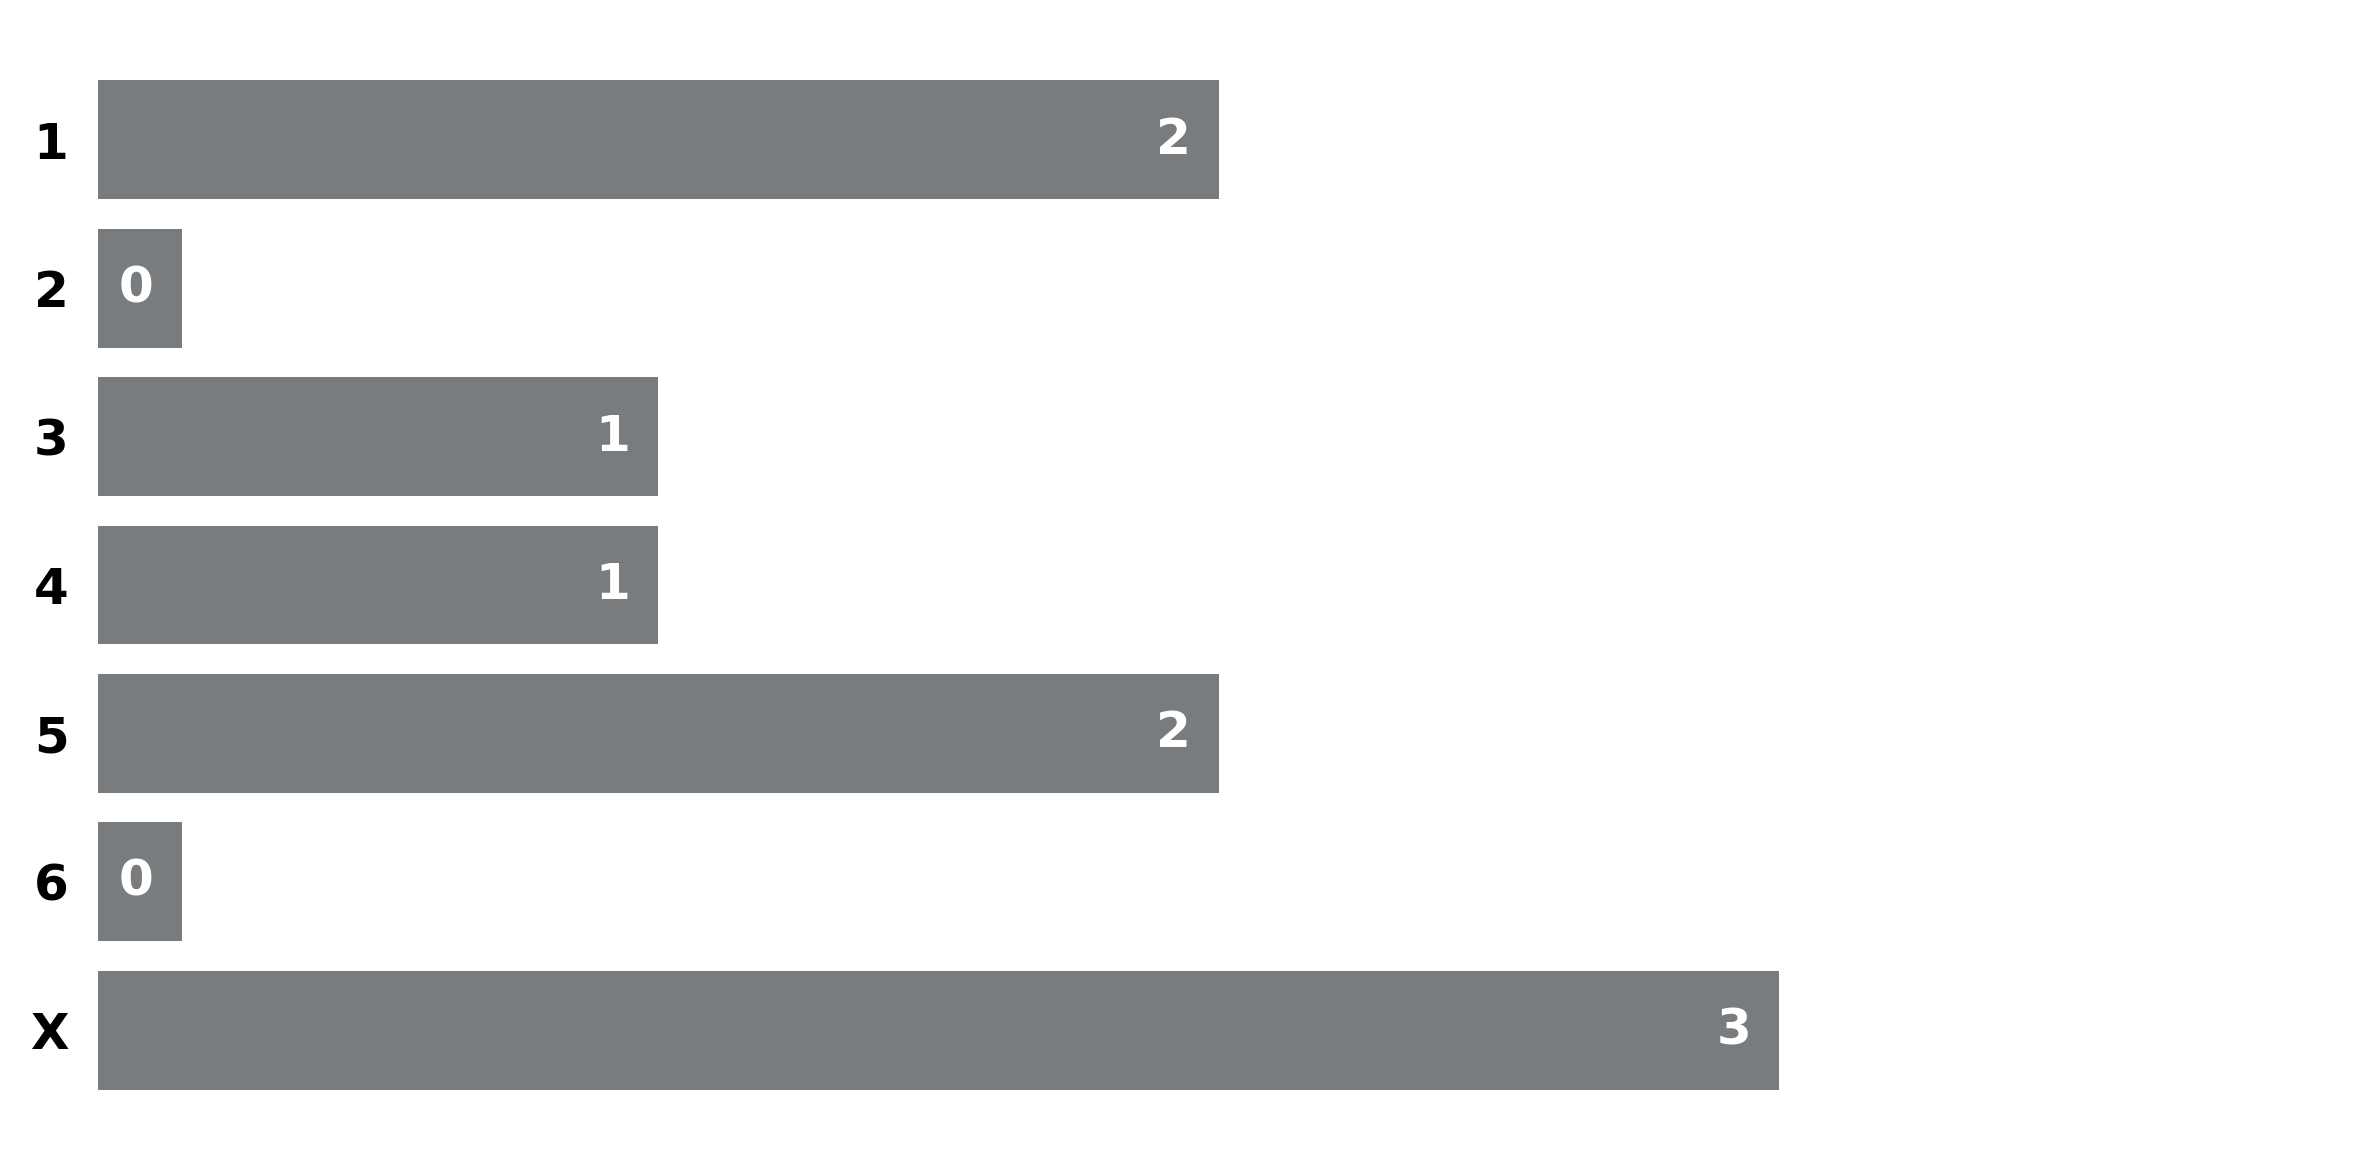
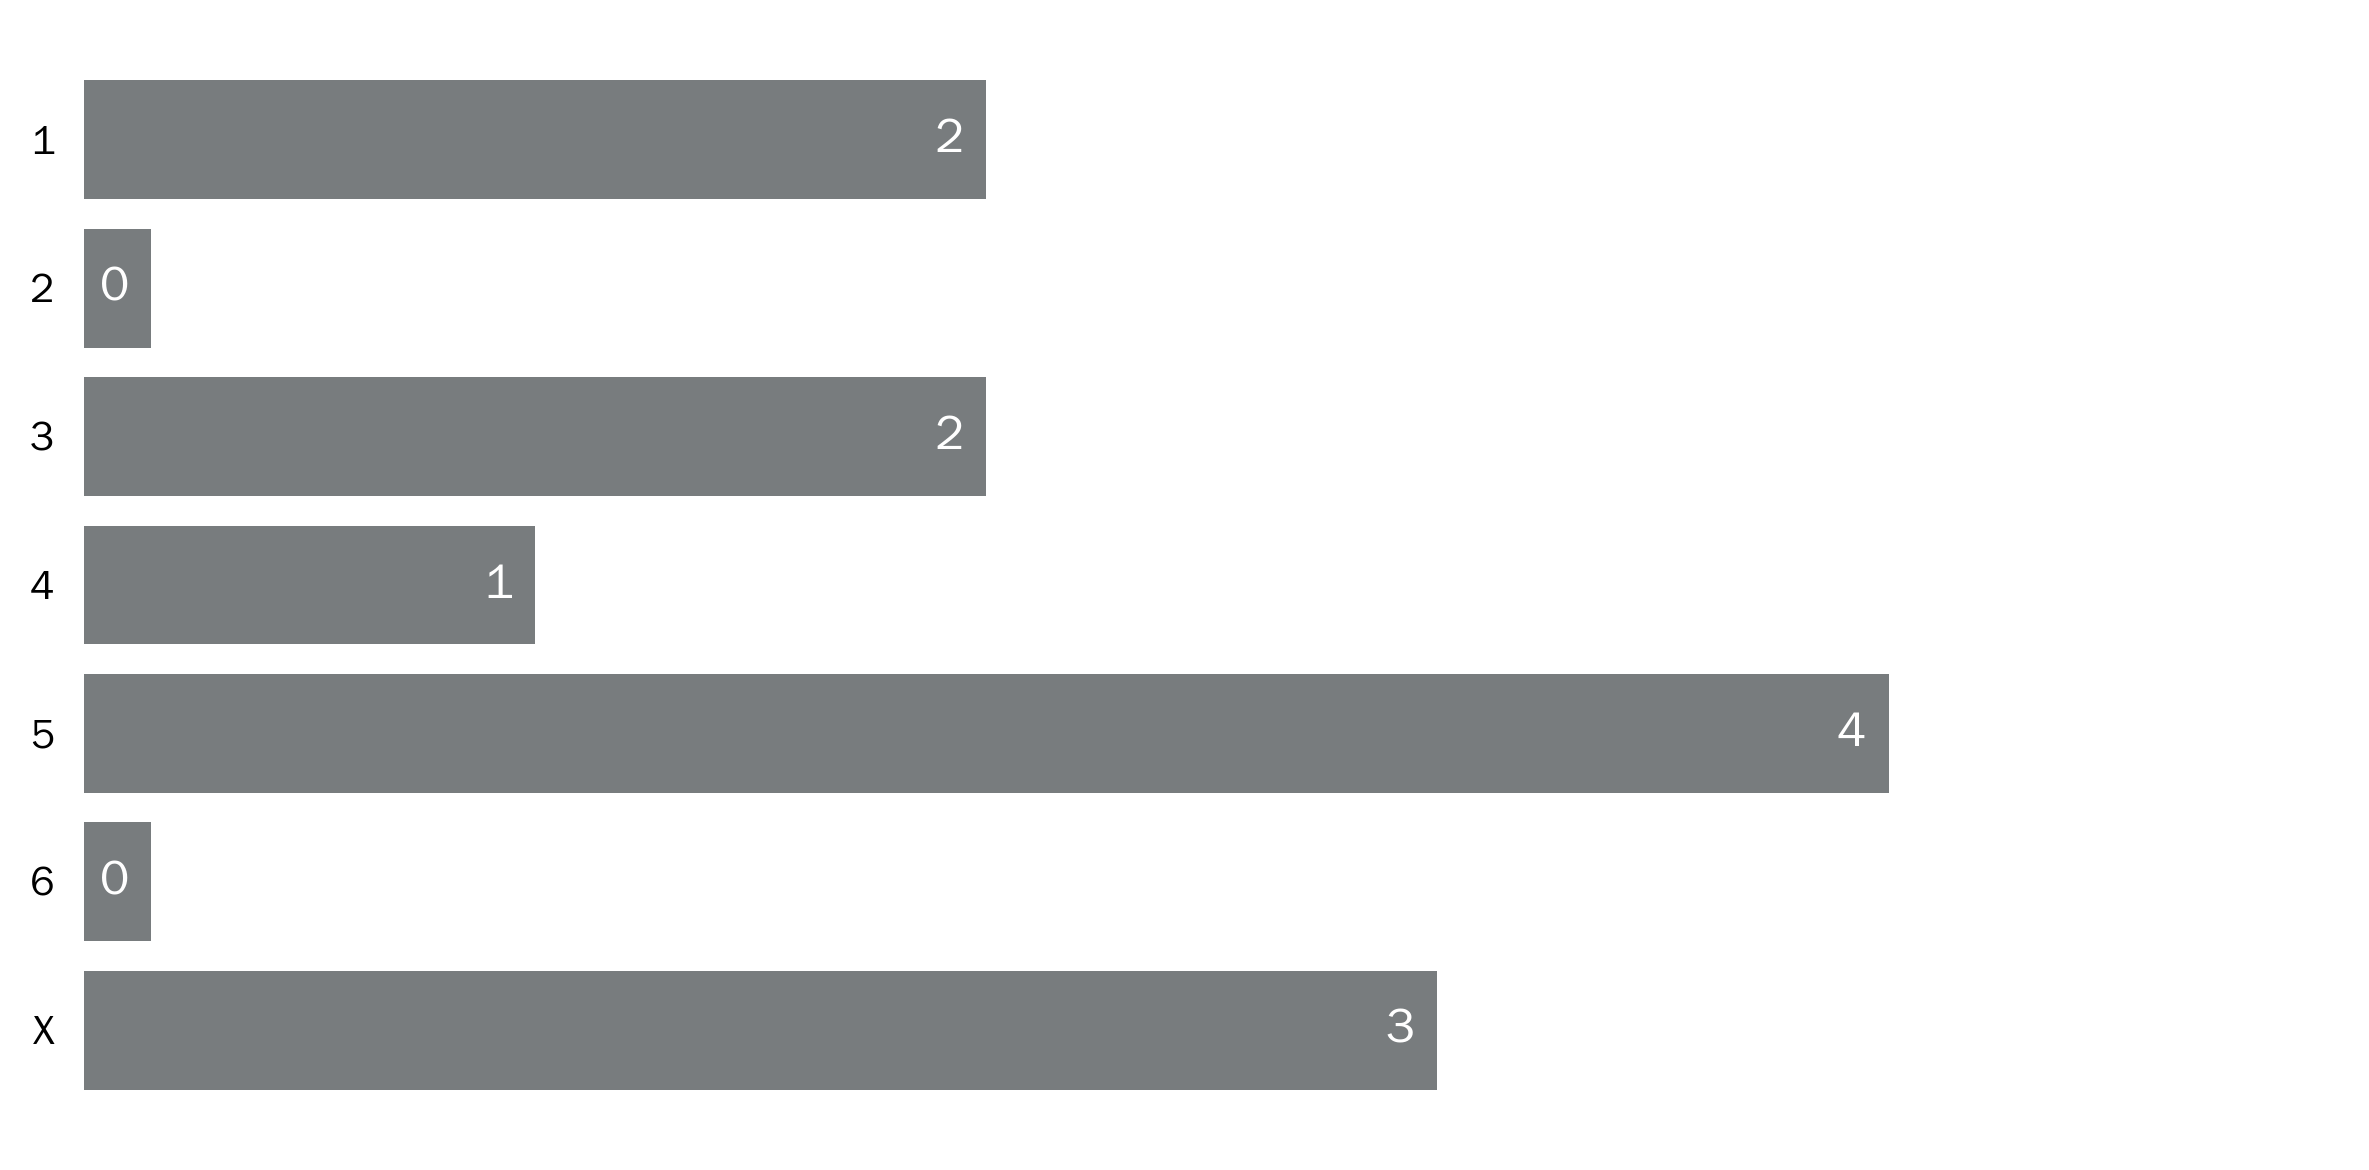
update

diff --git a/main.py b/main.py
@@ -1,7 +1,13 @@
 import discord, os, json, dotenv, re, sys, pybound, io, calendar
-import matplotlib.pyplot as plt
 from datetime import datetime, timedelta, timezone
 from PIL import Image, ImageDraw, ImageFont
+
+# MATPLOT LIB
+import matplotlib.pyplot as plt
+from matplotlib import font_manager
+font_path = "assets/Franklin-Gothic.ttf"
+font_manager.fontManager.addfont(font_path)
+franklin_font = font_manager.FontProperties(fname=font_path)
 
 # Emoji names and IDs (copy and paste for messaging and maybe reacting)
 # <:ninety:1393042776114855966> <:eighty:1393042634104111124> <:seventy:1393061147363508254> <:sixty:1393039767746117652> <:fifty:1393060774087360552>
@@ -38,13 +44,8 @@ def generate_wordle_bar_chart(distribution, filepath="assets/wordle_bar_chart.pn
 
     fig, ax = plt.subplots(figsize=(8, 4))
 
-    # Gray color used by NYT Wordle bars
     bar_color = "#787c7e"
-
-    # Minimum width to just fit number "0" plus padding
     min_bar_width = 0.15
-
-    # Adjust distribution for zero values: if zero, set width to min_bar_width, else original value
     adjusted_distribution = [val if val > 0 else min_bar_width for val in distribution]
 
     bars = ax.barh(guess_labels, adjusted_distribution, color=bar_color)
@@ -55,32 +56,46 @@ def generate_wordle_bar_chart(distribution, filepath="assets/wordle_bar_chart.pn
         padding = 0.05
         text_x = bar_width - padding
         text_color = "white"
-        ax.text(text_x, bar.get_y() + bar.get_height() / 2,
-                label, ha='right', va='center', color=text_color,
-                fontsize=12, fontweight='bold')
+        y = bar.get_y() + bar.get_height() / 2
 
-    # Clean up plot
-    ax.set_xlim(0, max(max(distribution), min_bar_width) + 1)  # Add 1 unit space for padding
+        for dx, dy in [(-0.25, 0), (0.25, 0), (0, -0.25), (0, 0.25)]:
+            ax.text(
+                text_x + dx * 0.01,
+                y + dy * 0.01,
+                label,
+                ha='right',
+                va='center',
+                color=text_color,
+                fontsize=12,
+                fontproperties=franklin_font
+            )
+
+        ax.text(
+            text_x,
+            y,
+            label,
+            ha='right',
+            va='center',
+            color=text_color,
+            fontsize=12,
+            fontproperties=franklin_font
+        )
+
+    ax.set_xlim(0, max(max(distribution), min_bar_width) + 1)
     ax.set_xticks([])
-
-    # Remove y-axis ticks (the little dash lines)
     ax.yaxis.set_ticks_position('none')
-
-    # Set y-ticks and labels with desired font and style (black color)
     ax.set_yticks(range(len(guess_labels)))
+
     labels = ax.set_yticklabels(
         guess_labels,
         fontsize=12,
         fontweight='bold',
-        color='black'
+        color='black',
+        fontproperties=franklin_font
     )
 
-    # Move last label "X" down a bit
-    # Get text object for last label
     last_label = labels[-1]
-    # Get current position (x, y) in display coordinates, then shift y down slightly
     pos = last_label.get_position()
-    # pos is (x,y), y is the vertical position; decrease y to move label down
     last_label.set_position((pos[0], pos[1] - 0.15))
 
     ax.set_xlabel("")
@@ -142,6 +157,7 @@ async def regex_message(message):
         save_data(data)
         await message.add_reaction("<:wordle:1393063212248858805>")
         await message.add_reaction(r) if (r := {7.5: "❌", 1: "1⃣", 2: "2⃣", 3: "3⃣", 4: "4⃣", 5: "5⃣", 6: "6⃣"}.get(guesses)) else None
+        await message.add_reaction(s) if (s := {7.5: ""})
         return
 
 
@@ -169,7 +185,7 @@ async def regex_message(message):
         }.get((solved, mistakes), 50)
 
         bonus = 0
-        if groups == ["🟪", "🟦", "🟨", "🟩"]:
+        if groups == ["🟪", "🟦", "🟩", "🟨"]:
             bonus += 4
         elif groups[:2] == ["🟪", "🟦"]:
             bonus += 3
